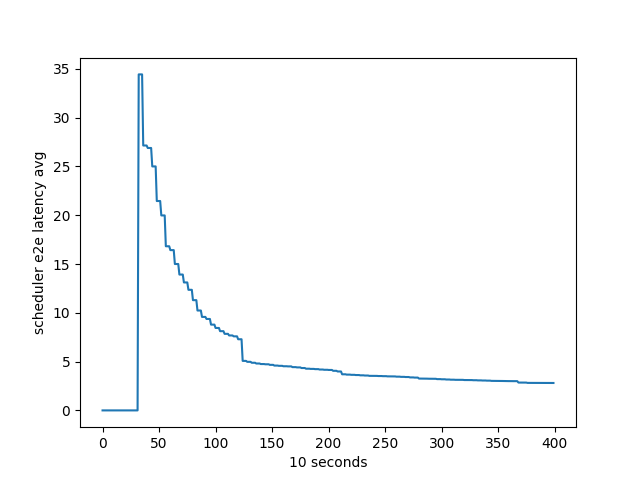
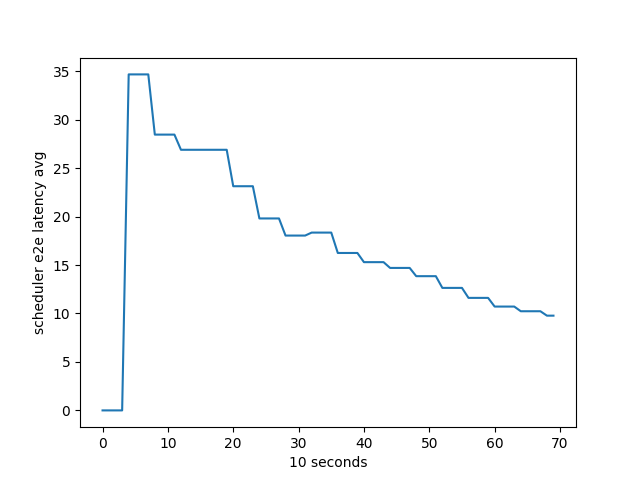
make activate tasks variable as atomic to avoid race conditions

diff --git a/src/main/java/edu/cam/dodoor/node/FifoTaskScheduler.java b/src/main/java/edu/cam/dodoor/node/FifoTaskScheduler.java
@@ -21,7 +21,7 @@ public class FifoTaskScheduler extends TaskScheduler {
     synchronized int handleSubmitTaskReservation(TaskSpec taskReservation) {
         // This method, cancelTaskReservations(), and handleTaskCompleted() are synchronized to avoid
         // race conditions between updating activeTasks and taskReservations.
-        if (_activeTasks < _numSlots) {
+        if (_activeTasks.get() < _numSlots) {
             if (!_taskReservations.isEmpty()) {
                 String errorMessage = "activeTasks should be less than maxActiveTasks only " +
                         "when no outstanding reservations.";
@@ -31,7 +31,7 @@ public class FifoTaskScheduler extends TaskScheduler {
             if (_nodeResources.runTaskIfPossible(taskReservation._resourceVector.cores,
                     taskReservation._resourceVector.memory, taskReservation._resourceVector.disks)) {
                 makeTaskRunnable(taskReservation);
-                ++_activeTasks;
+                _activeTasks.incrementAndGet();
                 LOG.debug("Making task for task {} runnable ({} of {} task slots currently filled)", new Object[]{taskReservation._taskId, _activeTasks, _numSlots});
                 return 0;
             } else {
@@ -39,13 +39,18 @@ public class FifoTaskScheduler extends TaskScheduler {
             }
         }
         int queuedReservations = _taskReservations.size();
-        LOG.debug("Enqueueing task reservation with task id {} because all task slots filled. {} already enqueued reservations.", taskReservation._taskId, queuedReservations);
+        LOG.debug("Enqueueing task reservation with task id {} because {} slots filled. {} already enqueued reservations.",
+                new Object[] {taskReservation._taskId,
+                _activeTasks.get()
+                ,queuedReservations});
         _taskReservations.add(taskReservation);
         return queuedReservations;
     }
 
     @Override
     protected void handleTaskFinished(TFullTaskId finishedTask) {
+        LOG.debug("Task {} finished, freeing resources and attempting to launch new task and" +
+                "current filled slots:{} ", finishedTask.taskId, _activeTasks);
         attemptTaskLaunch(finishedTask.taskId);
     }
 
@@ -57,11 +62,13 @@ public class FifoTaskScheduler extends TaskScheduler {
      * task to execute. This method needs to be synchronized to prevent a race condition.
      */
     private synchronized void attemptTaskLaunch(String lastExecutedTaskId) {
+        _activeTasks.getAndDecrement();
         for (TaskSpec taskSpec : _taskReservations) {
             if (_nodeResources.runTaskIfPossible(taskSpec._resourceVector.cores,
                     taskSpec._resourceVector.memory, taskSpec._resourceVector.disks)) {
                 if (_taskReservations.remove(taskSpec)) {
                     makeTaskRunnable(taskSpec);
+                    _activeTasks.getAndIncrement();
                     taskSpec._previousTaskId = lastExecutedTaskId;
                     return;
                 } else {
@@ -72,7 +79,6 @@ public class FifoTaskScheduler extends TaskScheduler {
                 }
             }
         }
-        _activeTasks -= 1;
         LOG.debug("No tasks to run, {} of {} task slots currently filled", _activeTasks, _numSlots);
     }
 

diff --git a/src/main/java/edu/cam/dodoor/node/TaskScheduler.java b/src/main/java/edu/cam/dodoor/node/TaskScheduler.java
@@ -9,13 +9,14 @@ import org.slf4j.LoggerFactory;
 
 import java.util.concurrent.BlockingQueue;
 import java.util.concurrent.LinkedBlockingQueue;
+import java.util.concurrent.atomic.AtomicInteger;
 
 public abstract class TaskScheduler {
 
     private final static Logger LOG = LoggerFactory.getLogger(TaskScheduler.class);;
 
     int _numSlots;
-    int _activeTasks;
+    AtomicInteger _activeTasks;
 
     final NodeResources _nodeResources;
 
@@ -26,7 +27,7 @@ public abstract class TaskScheduler {
     public TaskScheduler(int numSlots, NodeResources nodeResources) {
         _numSlots = numSlots;
         _nodeResources = nodeResources;
-        _activeTasks = 0;
+        _activeTasks = new AtomicInteger(0);
     }
 
     /** Initialize the task scheduler, passing it the current available resources

diff --git a/deploy/python/scripts/plot.py b/deploy/python/scripts/plot.py
@@ -11,7 +11,7 @@ if not os.path.exists(target_dir):
     os.makedirs(target_dir)
 
 time_steps = 10
-max_checkpoints = 400
+max_checkpoints = 70
 composited_node_host_file = "deploy/resources/log/node/{}".format(experiment_name)
 
 nodes_metrics = CompositedNodesMetrics(composited_node_host_file)
